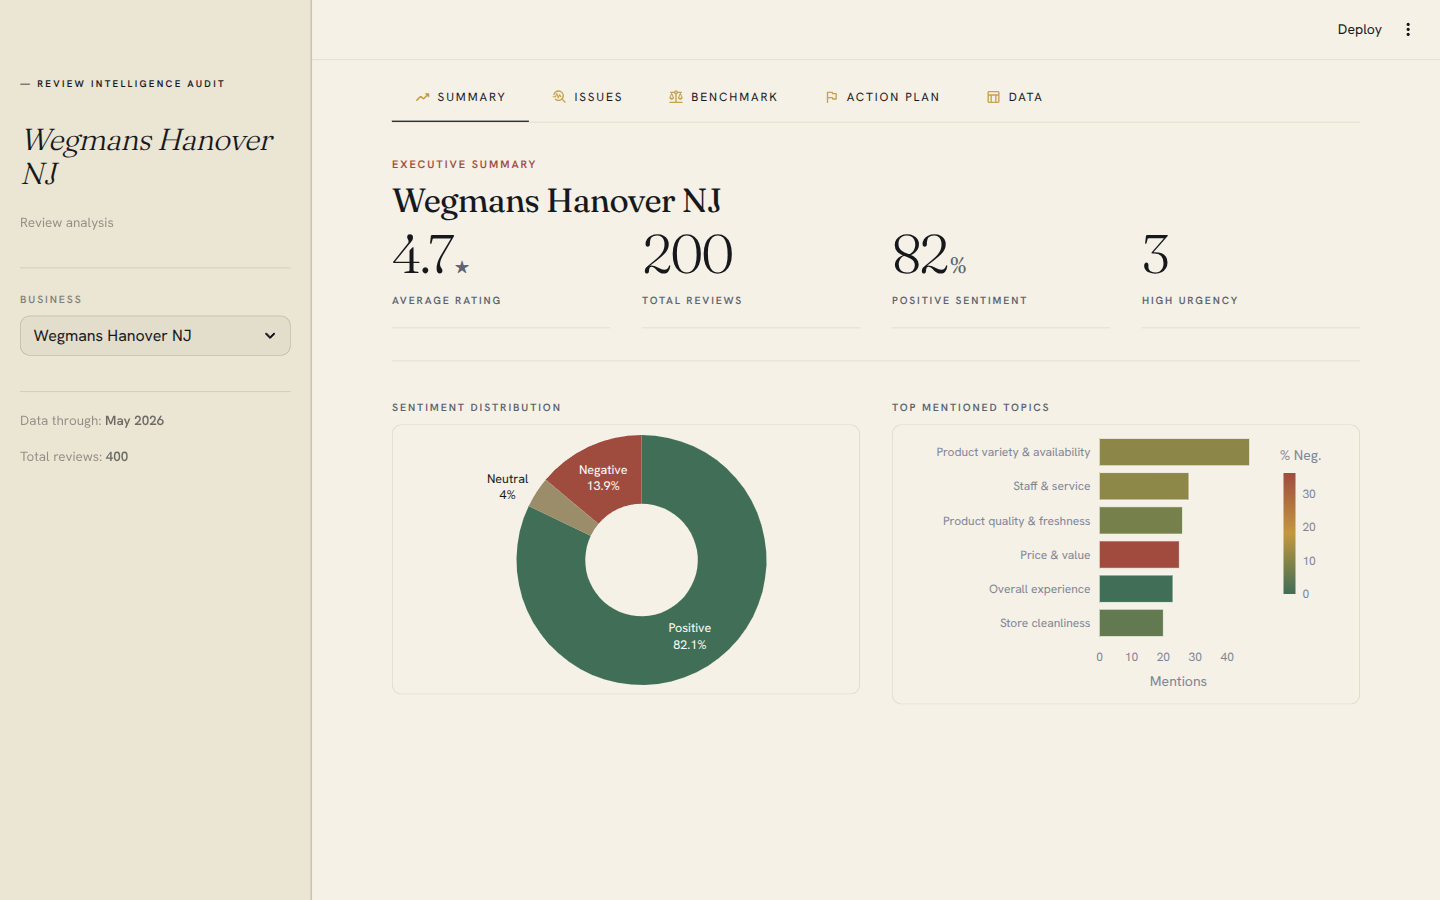
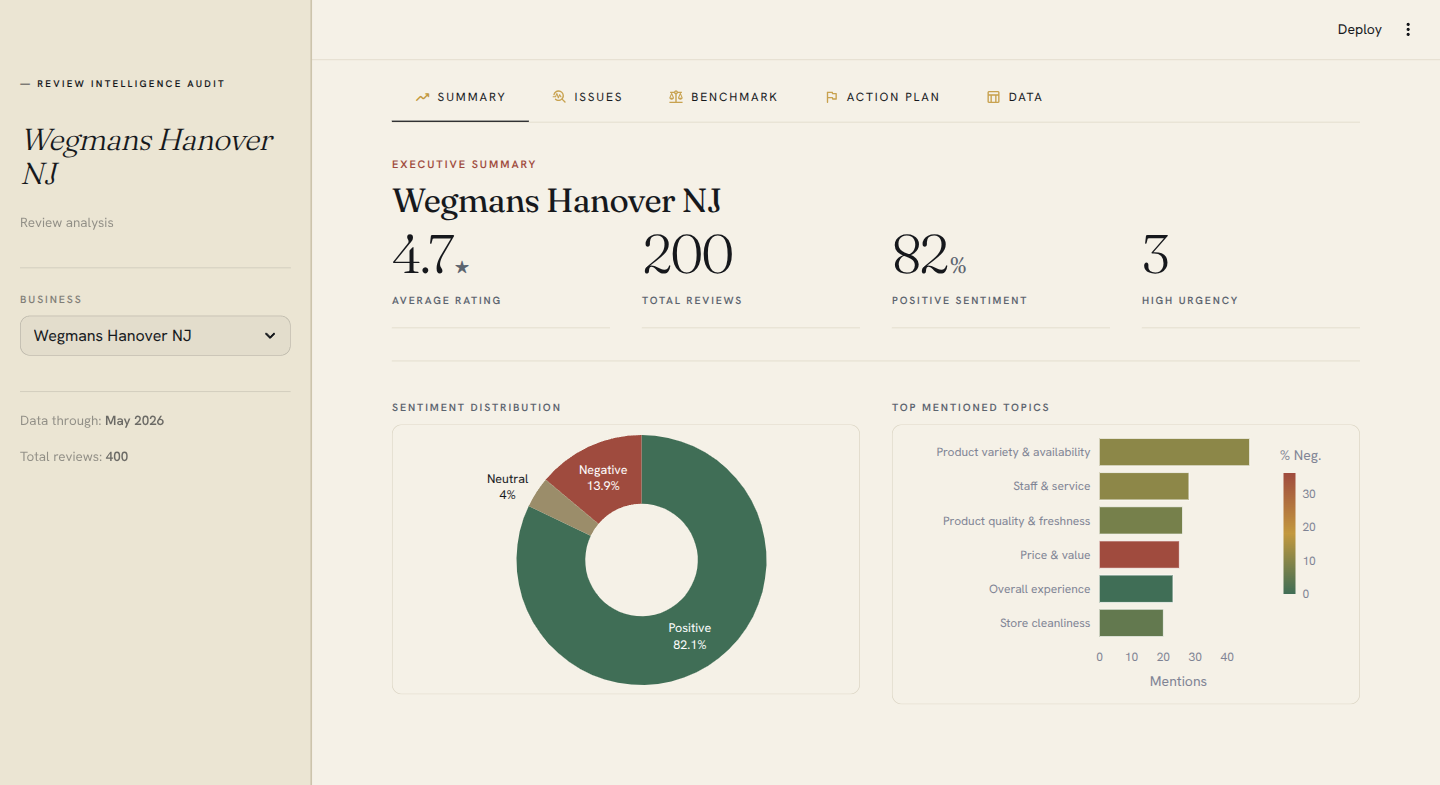
feat: default client to wegmans when no query param provided

diff --git a/app.py b/app.py
@@ -41,10 +41,7 @@ from review_insights.reporting.dashboard import (
     load_insights,
 )
 
-client_slug = st.query_params.get("client")
-if not client_slug:
-    st.error("Missing **?client=** parameter. Example: `?client=ida`")
-    st.stop()
+client_slug = st.query_params.get("client", "wegmans")
 
 try:
     cfg = load_client_config(client_slug)